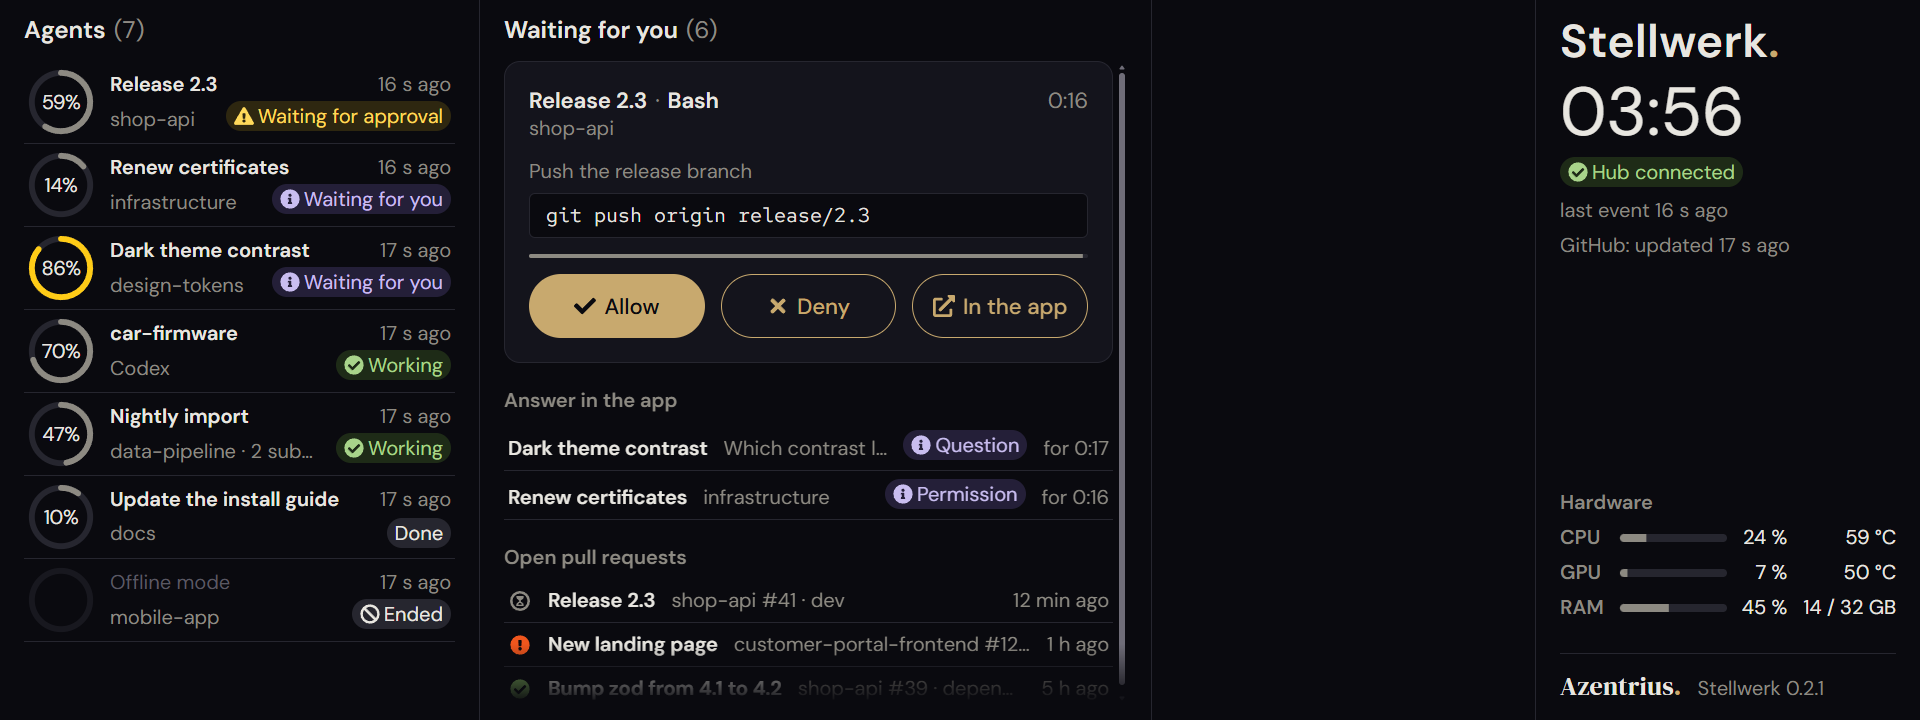
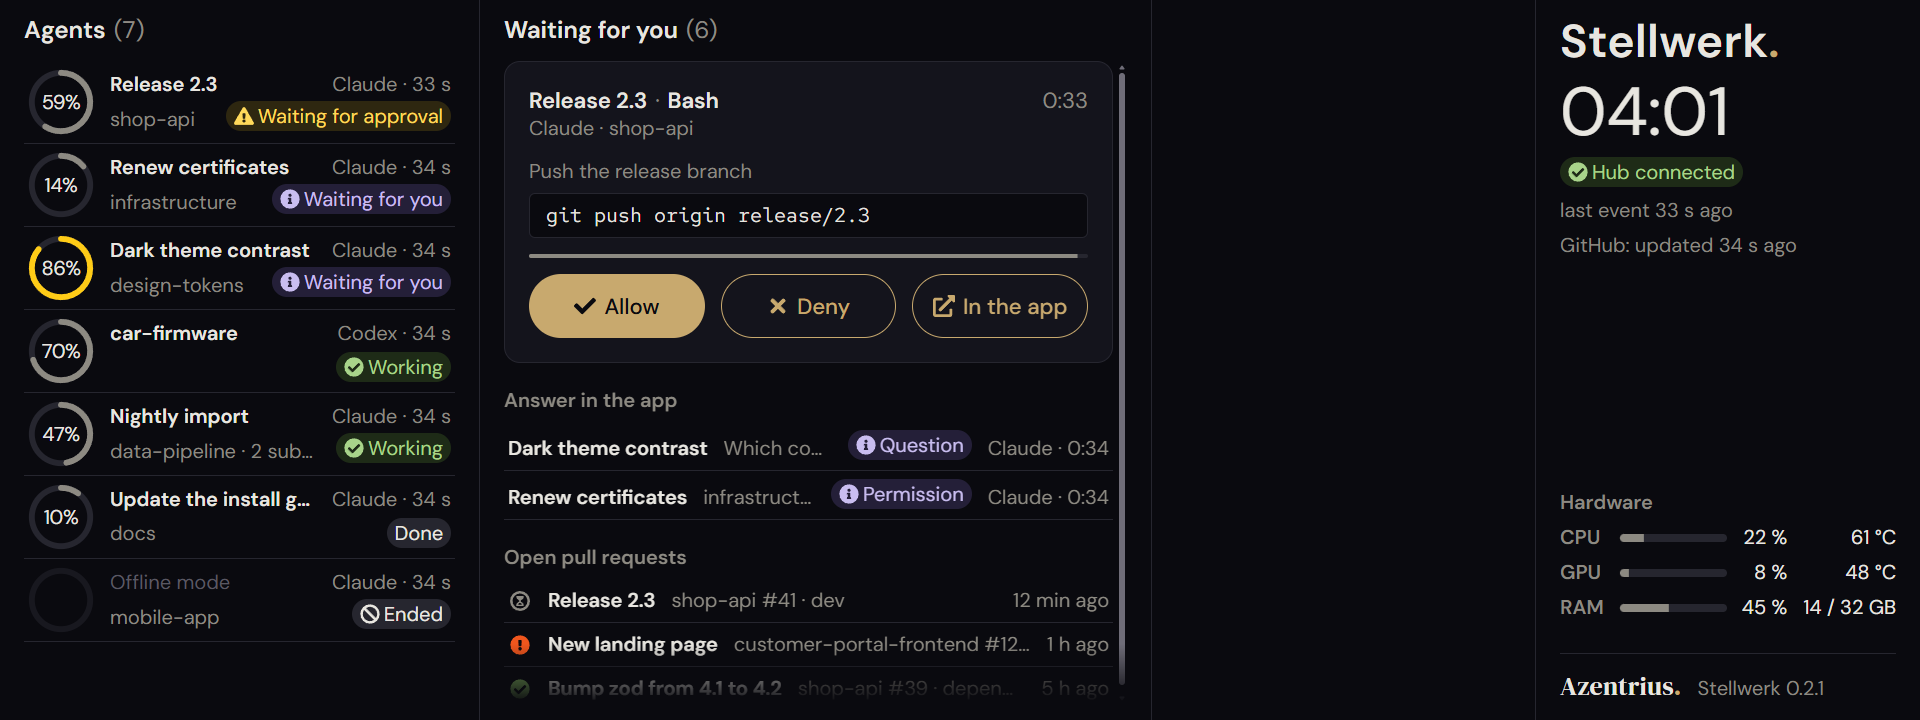
Mark every agent alike
All agents are equal on the display: every session says whose it is, the
usual agent as much as Codex. Next to the name it reads "<agent> · 12 s":
the time there is short now ("12 s" instead of "12 s ago"), so the names
keep their room, and the project below keeps its own. Answers in the app
carry the agent with the waiting time, cards below the name.

diff --git a/ui/src/agents.ts b/ui/src/agents.ts
@@ -1,15 +1,15 @@
-// The agents column: every session with the ring of its context in front, its name (bold) and how long ago
-// it was active on top; below whose agent it is if not Claude's (e.g. "Codex"), its project (and
-// subagents) and its state; the most urgent first (the hub sorts them).
+// The agents column: every session with the ring of its context in front, its name (bold), whose agent it
+// is and how long ago it was active on top ("Claude · 12 s"), its project (and subagents) and its state
+// below; the most urgent first (the hub sorts them). All agents look alike.
 //
 // SPDX-License-Identifier: Apache-2.0
 
 import type { ContextUsage, SessionView } from '../../src/shared/protocol.js';
 import { CONTEXT_FULL, contextPercent } from './context.ts';
 import { el, entry } from './dom.ts';
-import { providerTag, type Texts } from './i18n.ts';
+import type { Texts } from './i18n.ts';
 import { sessionState } from './states.ts';
-import { ago } from './time.ts';
+import { elapsed } from './time.ts';
 
 const SVG = 'http://www.w3.org/2000/svg';
 /** A circle of this radius in a 36 × 36 box is 100 units around, so a percentage is its own dash length. */
@@ -19,10 +19,10 @@ export function renderAgents(list: HTMLElement, sessions: SessionView[], now: nu
   list.replaceChildren(
     ...sessions.map((session) => {
       const { name, project } = naming(session.project, session.title, session.id);
-      const details = [providerTag(session.provider, texts), project, session.subagents > 0 ? texts.subagents(session.subagents) : '']
-        .filter(Boolean)
-        .join(' · ');
-      const item = entry(`agent agent--${session.status} entry--ring`, name, ago(now - session.lastActivity, texts), details, sessionState(session.status, texts));
+      const details = [project, session.subagents > 0 ? texts.subagents(session.subagents) : ''].filter(Boolean).join(' · ');
+      // Whose agent it is, for every session alike, with the time, which is kept short for it ("12 s").
+      const time = `${texts.providers[session.provider]} · ${elapsed(now - session.lastActivity, texts)}`;
+      const item = entry(`agent agent--${session.status} entry--ring`, name, time, details, sessionState(session.status, texts));
       item.title = session.cwd;
       item.prepend(contextRing(session.context, texts));
       return item;

diff --git a/ui/src/i18n.ts b/ui/src/i18n.ts
@@ -53,8 +53,10 @@ export interface Texts {
   ago: (n: number, unit: TimeUnit) => string;
   justNow: string;
   subagents: (n: number) => string;
-  /** Whose agent a session is; shown for every agent but Claude, the usual one (see `providerTag`). */
+  /** Whose agent a session is, shown for every session alike. */
   providers: Record<Provider, string>;
+  /** A moment ago, short (with the provider, in place of "just now"). */
+  now: string;
   /** The context ring of an agent: how full, as its name and tooltip; or not known yet. */
   context: (percent: string) => string;
   contextUnknown: string;
@@ -153,6 +155,7 @@ const en: Texts = {
   justNow: 'just now',
   subagents: (n) => (n === 1 ? '1 subagent' : `${n} subagents`),
   providers: { claude: 'Claude', codex: 'Codex' },
+  now: 'now',
   context: (percent) => `Context ${percent} used`,
   contextUnknown: 'Context not known yet',
   alreadyDecided: 'Already decided.',
@@ -249,6 +252,7 @@ const de: Texts = {
   justNow: 'gerade eben',
   subagents: (n) => (n === 1 ? '1 Subagent' : `${n} Subagenten`),
   providers: { claude: 'Claude', codex: 'Codex' },
+  now: 'jetzt',
   context: (percent) => `Kontext ${percent} genutzt`,
   contextUnknown: 'Kontext noch unbekannt',
   alreadyDecided: 'Bereits entschieden.',
@@ -268,11 +272,6 @@ const de: Texts = {
   address: 'Adresse',
   query: 'Suche',
 };
-
-/** The provider's name in front of a session's details, for every agent but Claude, the usual one. */
-export function providerTag(provider: Provider, texts: Texts): string {
-  return provider === 'claude' ? '' : texts.providers[provider];
-}
 
 export function pickTexts(languages: readonly string[]): { lang: Lang; texts: Texts } {
   const first = (languages[0] ?? 'en').toLowerCase();

diff --git a/ui/src/answers.ts b/ui/src/answers.ts
@@ -8,7 +8,7 @@
 import type { SessionView, WaitingFor } from '../../src/shared/protocol.js';
 import { naming } from './agents.ts';
 import { entry } from './dom.ts';
-import { providerTag, type Texts } from './i18n.ts';
+import type { Texts } from './i18n.ts';
 import { state } from './states.ts';
 import { duration } from './time.ts';
 
@@ -25,10 +25,12 @@ export function renderAnswers(list: HTMLElement, sessions: Array<SessionView & {
   list.replaceChildren(
     ...sessions.map((session) => {
       const { name, project } = naming(session.project, session.title, session.id);
-      const since = session.waitingSince === null ? '' : texts.since(duration(now - session.waitingSince));
-      const details = [providerTag(session.provider, texts), session.question ?? project].filter(Boolean).join(' · ');
+      // Whose agent it is, with how long it has been waiting ("Codex · 0:42").
+      const since = [texts.providers[session.provider], session.waitingSince === null ? '' : duration(now - session.waitingSince)]
+        .filter(Boolean)
+        .join(' · ');
       // The same state as "waiting for you" in the agents column: a note, with the reason as its word.
-      return entry('answer entry--short', name, since, details, state('info', texts.waitingFor[session.waitingFor]));
+      return entry('answer entry--short', name, since, session.question ?? project, state('info', texts.waitingFor[session.waitingFor]));
     }),
   );
 }

diff --git a/test/states.test.ts b/test/states.test.ts
@@ -5,7 +5,8 @@
 import assert from 'node:assert/strict';
 import { test } from 'node:test';
 import type { ChecksState, SessionStatus } from '../src/shared/protocol.js';
-import { pickTexts, providerTag } from '../ui/src/i18n.ts';
+import { pickTexts } from '../ui/src/i18n.ts';
+import { elapsed } from '../ui/src/time.ts';
 import { ICONS } from '../ui/src/icons.ts';
 import { checksState, hubState, sessionState, state, type State } from '../ui/src/states.ts';
 
@@ -53,11 +54,13 @@ test('checks stand as an icon alone in the list: each but "none" has one, and th
   }
 });
 
-test('every agent but Claude, the usual one, says whose it is, in both languages', () => {
-  for (const texts of languages) {
-    assert.equal(providerTag('claude', texts), '');
-    assert.equal(providerTag('codex', texts), 'Codex');
-  }
+test('every agent says whose it is, all alike, with a short time', () => {
+  for (const texts of languages) assert.deepEqual(texts.providers, { claude: 'Claude', codex: 'Codex' });
+  assert.equal(elapsed(500, en), 'now');
+  assert.equal(elapsed(12_000, en), '12 s');
+  assert.equal(elapsed(4 * 60_000 + 5_000, en), '4 min');
+  assert.equal(elapsed(2 * 3_600_000, languages[1]!), '2 h');
+  assert.equal(elapsed(0, languages[1]!), 'jetzt');
 });
 
 test('the hub: connected is good, disconnected an error that says how to fix it', () => {

diff --git a/ui/src/queue.ts b/ui/src/queue.ts
@@ -6,7 +6,7 @@
 import type { Decision, PermissionView } from '../../src/shared/protocol.js';
 import { naming } from './agents.ts';
 import { el, icon } from './dom.ts';
-import { providerTag, type Texts } from './i18n.ts';
+import type { Texts } from './i18n.ts';
 import { duration } from './time.ts';
 import { renderToolInput } from './tool-input.ts';
 
@@ -101,8 +101,7 @@ export class QueueView {
     const wait = el('span', 'card__wait');
     line.append(el('span', 'card__name', name), el('span', 'card__sep', '·'), el('span', 'card__tool', view.tool), wait);
     head.append(line);
-    const below = [providerTag(view.provider, t), project].filter(Boolean).join(' · ');
-    if (below) head.append(el('p', 'card__project', below));
+    head.append(el('p', 'card__project', [t.providers[view.provider], project].filter(Boolean).join(' · ')));
     root.append(head, renderToolInput(view.tool, view.input, view.mcpServer, t));
 
     const hold = el('div', 'card__hold');

diff --git a/ui/src/time.ts b/ui/src/time.ts
@@ -19,6 +19,15 @@ export function duration(ms: number): string {
   return h > 0 ? `${h}:${String(m).padStart(2, '0')}:${s}` : `${m}:${s}`;
 }
 
+/** How long ago, short, where the context says "ago": "3 s", "4 min", "2 h", "jetzt". */
+export function elapsed(ms: number, texts: Texts): string {
+  const seconds = Math.max(0, Math.floor(ms / 1000));
+  if (seconds < 2) return texts.now;
+  if (seconds < 60) return `${seconds} s`;
+  if (seconds < 3600) return `${Math.floor(seconds / 60)} min`;
+  return `${Math.floor(seconds / 3600)} h`;
+}
+
 /** How long ago: "vor 3 s", "vor 4 min", "vor 2 h". */
 export function ago(ms: number, texts: Texts): string {
   const seconds = Math.max(0, Math.floor(ms / 1000));

diff --git a/README.md b/README.md
@@ -11,9 +11,9 @@ dispatcher who sees every train on the track diagram and sets the signals.
 ## What it does
 
 - **Every session at a glance.** In the left column, each session with its name (bold) and project, and
-  its status: waiting for approval, waiting for you, working, done, ended. With the number of running
-  subagents and the time of the last activity. The most urgent first. Sessions of other agents than
-  Claude Code say whose they are, e.g. "Codex".
+  its status: waiting for approval, waiting for you, working, done, ended. With whose agent it is
+  ("Claude", "Codex", all alike), the number of running subagents and the time of the last activity. The
+  most urgent first.
 - **How full the context is.** A ring in front of each session shows how much of its context window is
   used, from 0 to 100 %, as the ring in the Claude app does; from 80 % it needs attention. The hub takes
   the token counts of the last answer from the session's transcript.

diff --git a/CHANGELOG.md b/CHANGELOG.md
@@ -11,8 +11,9 @@ requests; questions in the app's box at the end of a turn count as waiting for y
   app shows its own card only after the hook; with "Approve for me" nothing is held. Codex' questions
   are listed under "Answer in the app"; the app's helper sessions are not shown; the context ring uses
   the window Codex records. `stellwerk codex uninstall` removes exactly these hooks.
-- **Whose agent:** sessions, answers and cards of other agents than Claude Code carry their name, e.g.
-  "Codex", in front of their details.
+- **Whose agent:** every session, answer and card says whose agent it is, all alike: "Claude · 12 s" next
+  to the name (the time there is short now), "Claude · 0:42" with the waiting time, "Claude · shop-api"
+  on the card.
 
 - **Context ring:** a ring in front of each agent shows how much of its context window is used, 0 to
   100 %, as in the Claude app; from 80 % it needs attention. The hub takes the token counts of the last
